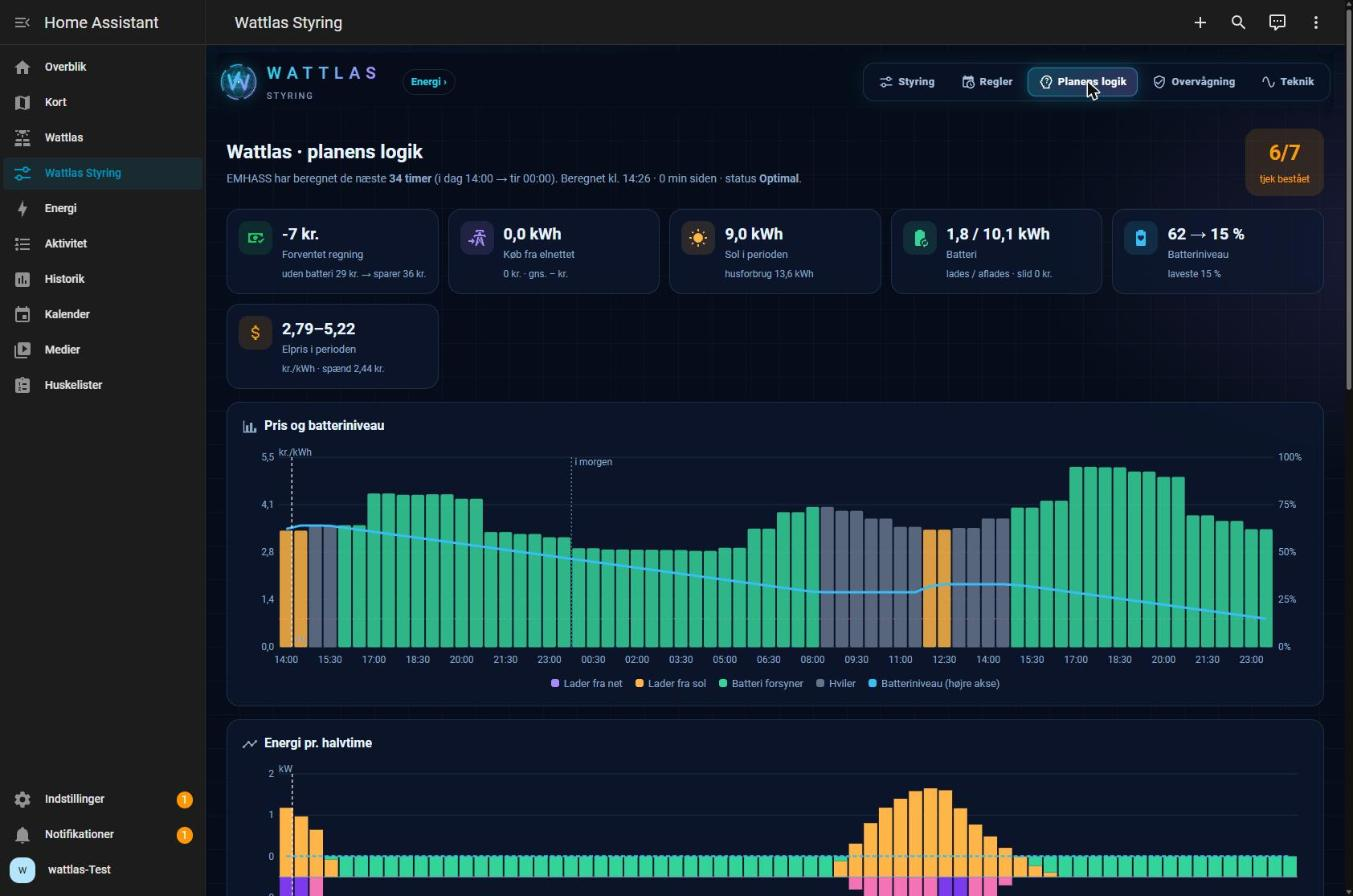
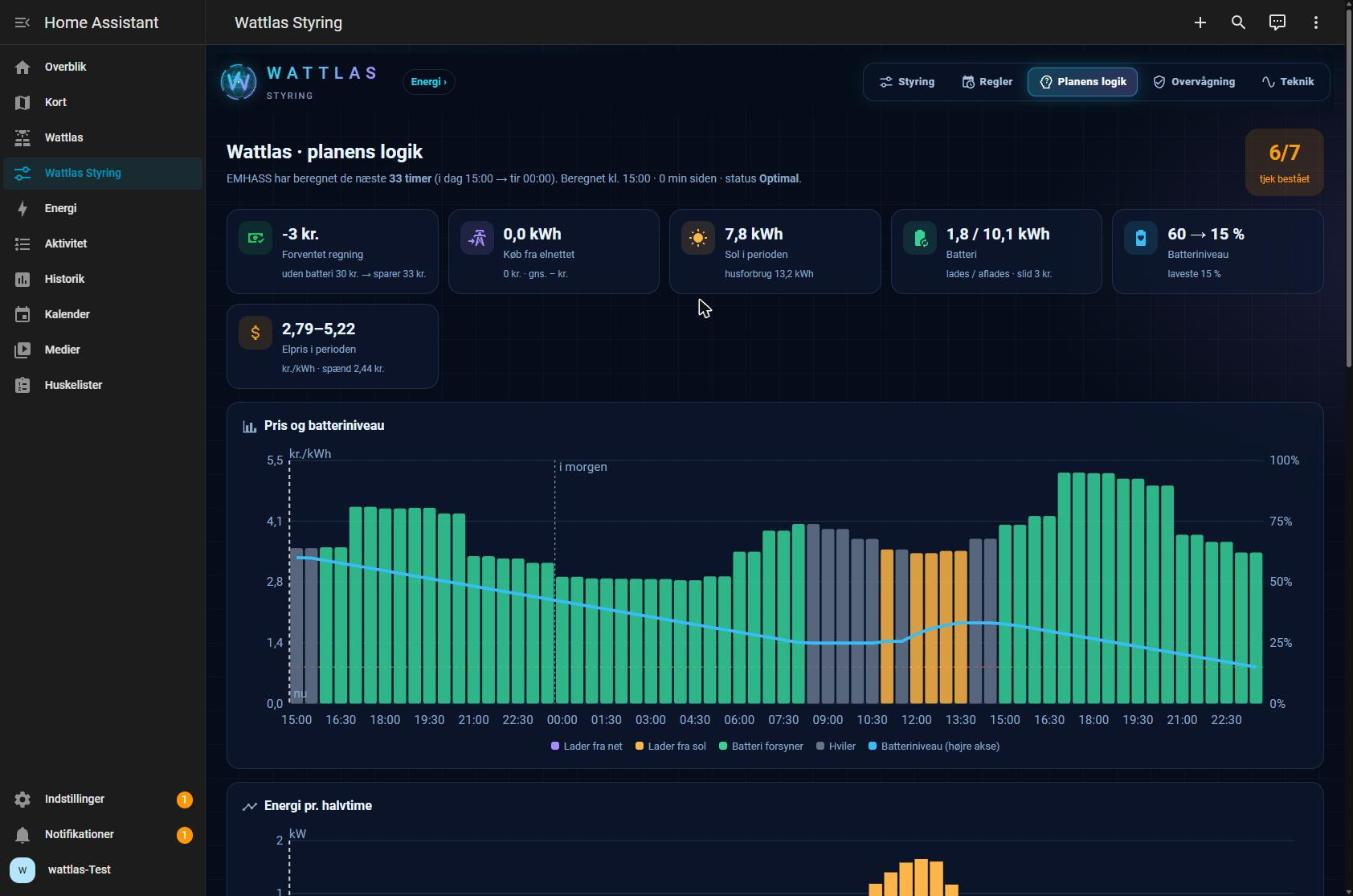
Billedguide: pris-trinnet med batterislid og første plan med slid 0,25

diff --git a/docs/BILLEDGUIDE.md b/docs/BILLEDGUIDE.md
@@ -110,9 +110,13 @@ Netselskabets tariffer (lav, høj og spids), elafgiften og evt. elselskabets til
 elregning eller netselskabets hjemmeside. Felter mærket *valgfri* kan stå tomme.
 
 **Batterislid** er forudfyldt med 0,25 kr. pr. kWh. Regn gerne dit eget tal: batteriets pris / (kapacitet × cykler).
-Sæt den ikke til 0 – så regner planen batteriet som gratis at bruge. (Feltet er nyt og er ikke med på billedet endnu.)
+Sæt den ikke til 0 – så regner planen batteriet som gratis at bruge.
 
 ![Priser](billeder/installation/11-priser.jpg)
+
+Rul ned i samme vindue for at se de sidste felter:
+
+![Priser – batterislid nederst](billeder/installation/11b-priser-slid.jpg)
 
 ## 9. Færdig – genstart
 
